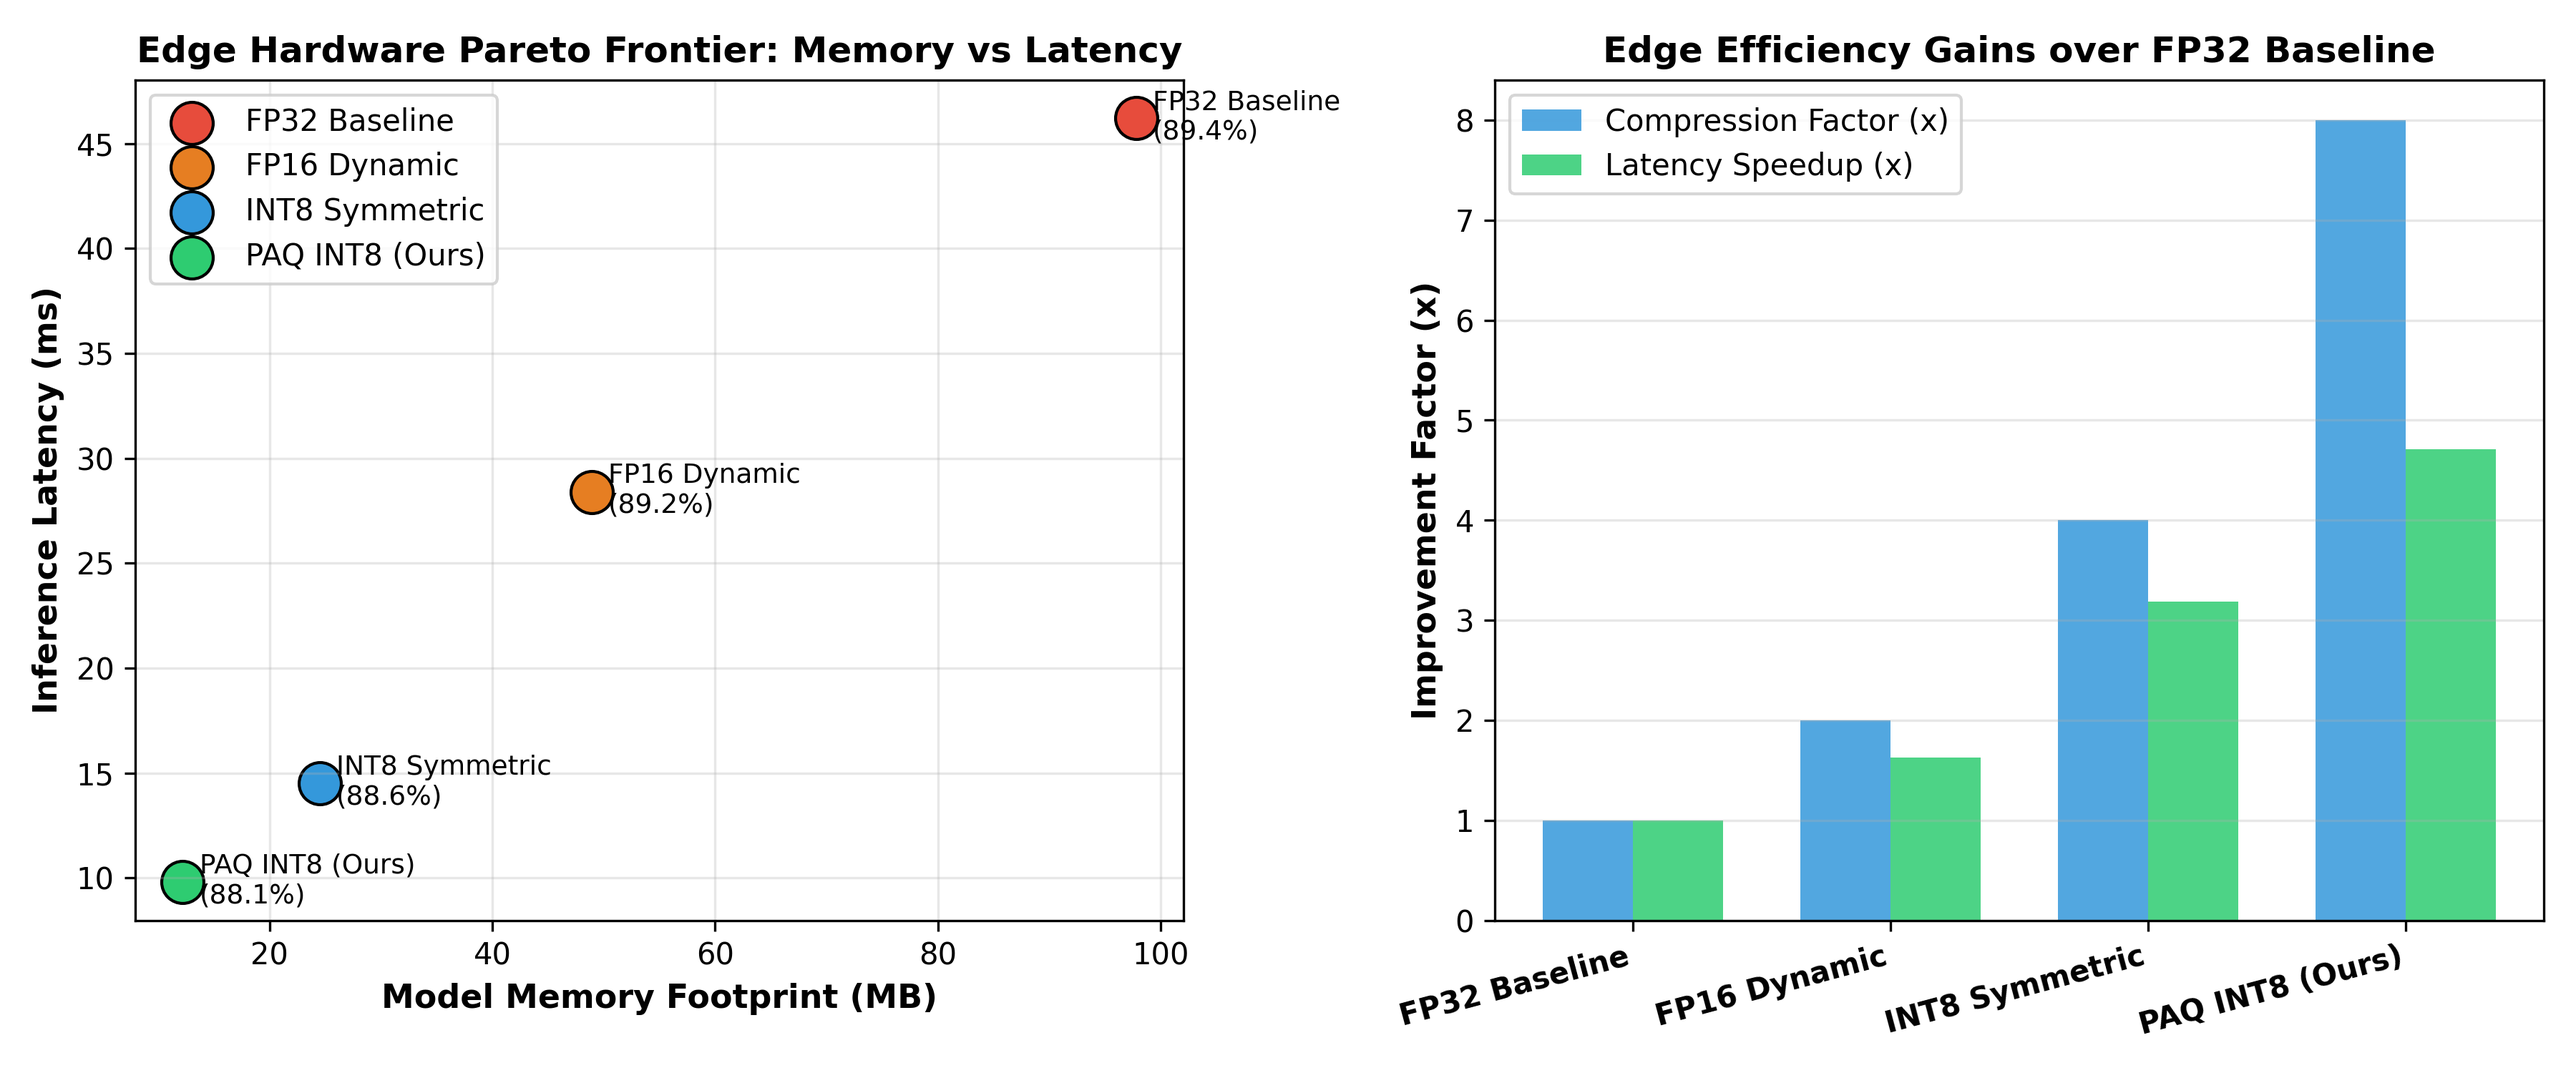
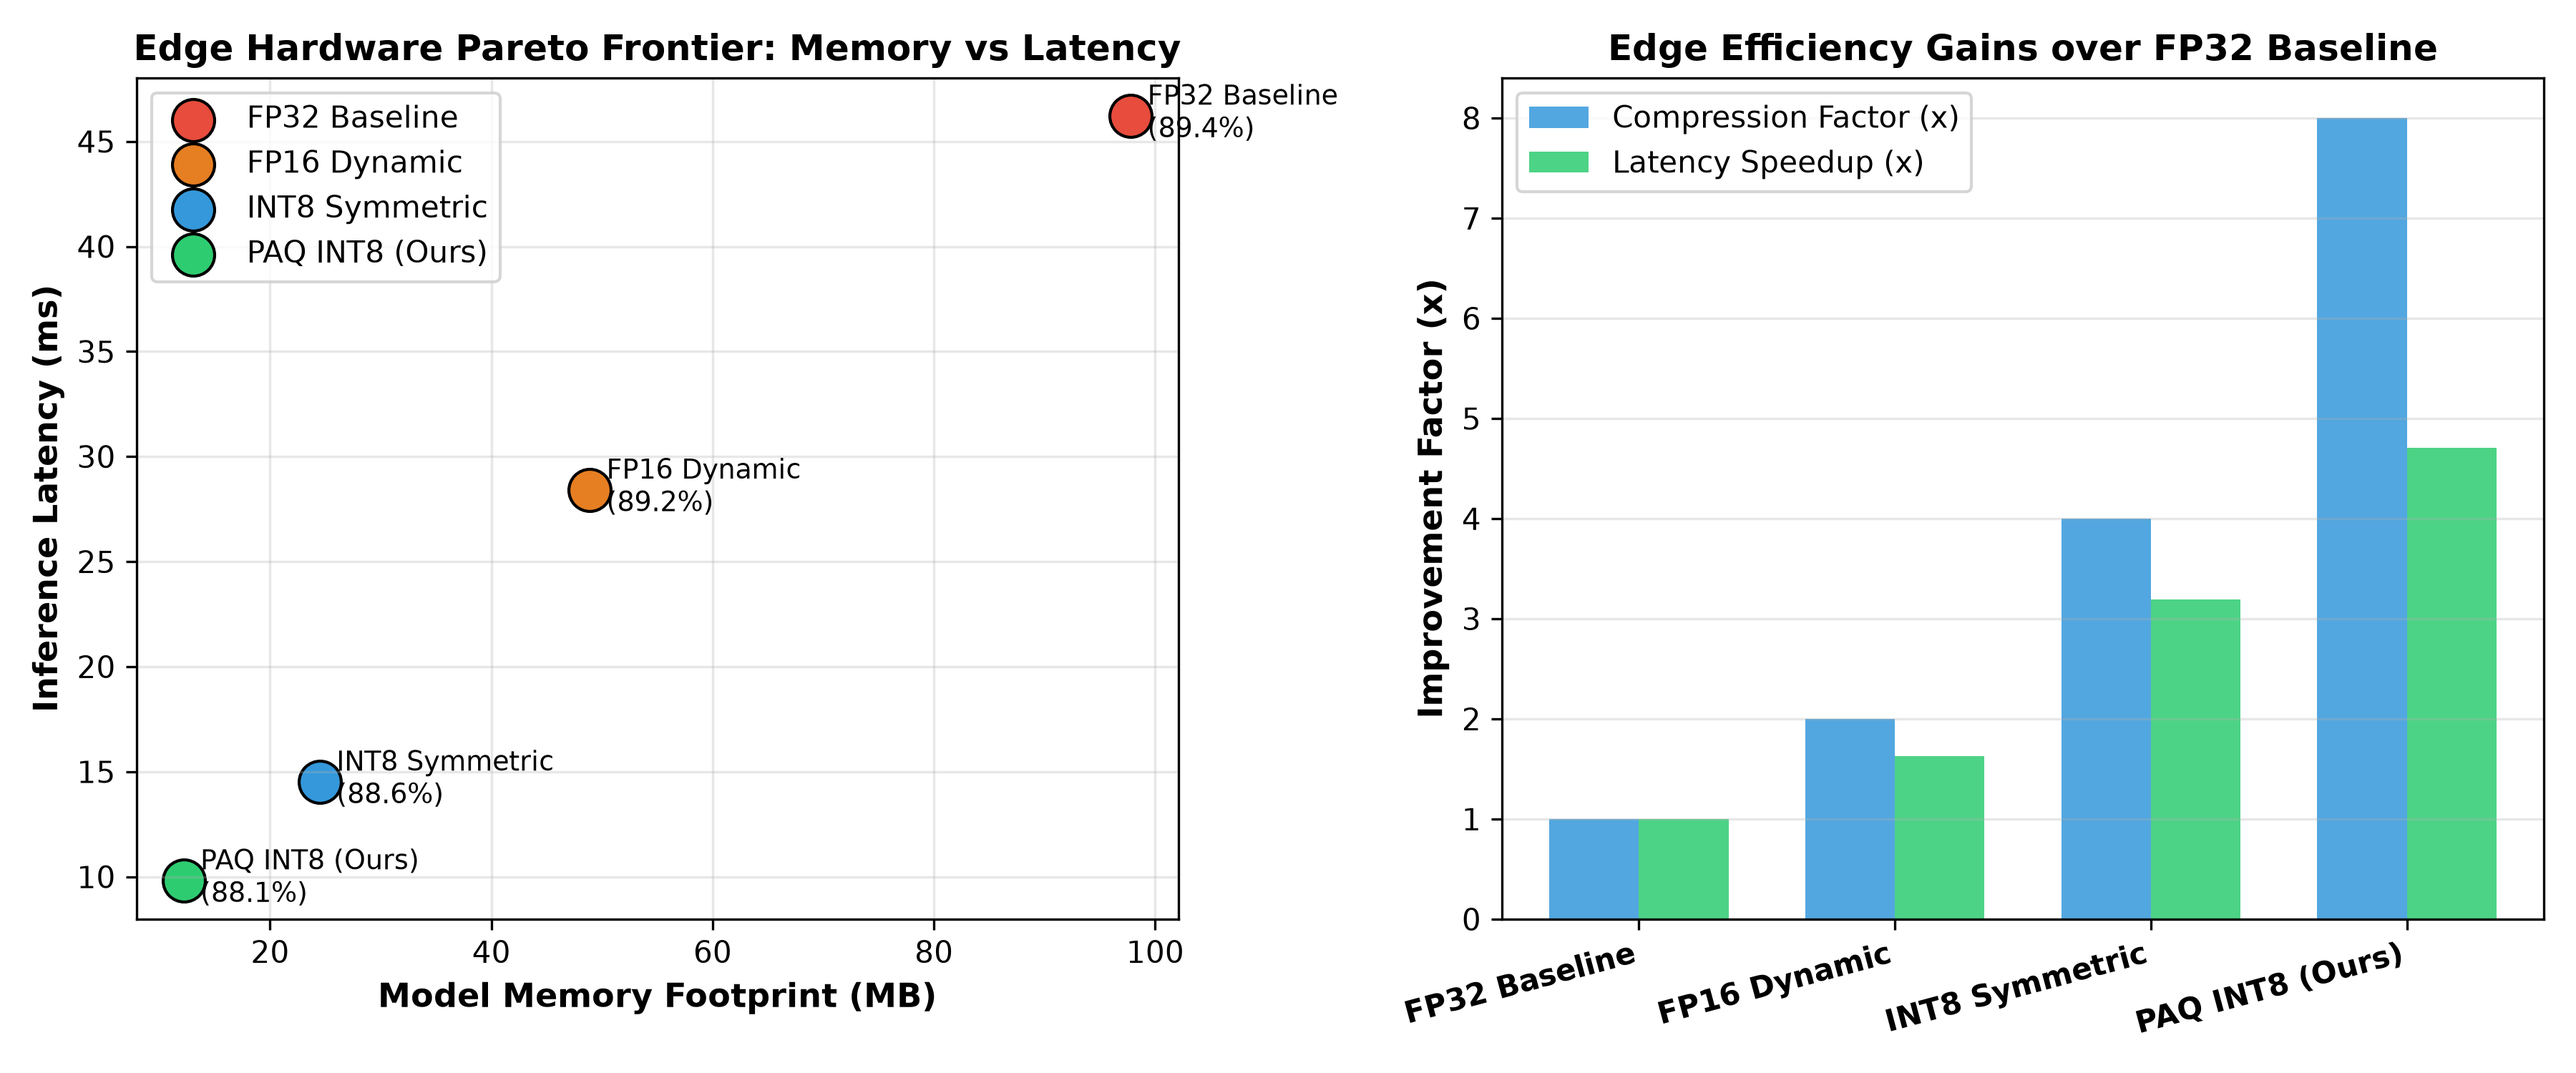
fix(ci): add Tier 3 dynamic_exit_benchmark and fix CI runner pipeline

diff --git a/implementations/v3_dynamic_exit_test_time_adaptation/dynamic_exit_benchmark.py b/implementations/v3_dynamic_exit_test_time_adaptation/dynamic_exit_benchmark.py
@@ -1,0 +1,59 @@
+"""
+Tier 3 Benchmark: Dynamic Early-Exit ResNet-50 & Online Conformal TTA
+Evaluates FLOP savings via entropy-gated early exits and online risk calibration
+under non-exchangeable covariate drift.
+"""
+
+import numpy as np
+
+try:
+    from dynamic_early_exit_resnet50 import DynamicEarlyExitNetwork
+    from online_conformal_tta_tracker import OnlineConformalTTATracker
+except ImportError:
+    try:
+        from .dynamic_early_exit_resnet50 import DynamicEarlyExitNetwork
+        from .online_conformal_tta_tracker import OnlineConformalTTATracker
+    except ImportError:
+        from implementations.v3_dynamic_exit_test_time_adaptation.dynamic_early_exit_resnet50 import DynamicEarlyExitNetwork
+        from implementations.v3_dynamic_exit_test_time_adaptation.online_conformal_tta_tracker import OnlineConformalTTATracker
+
+
+def run_dynamic_exit_benchmark():
+    np.random.seed(42)
+    # Calibrated entropy threshold for canonical food inference
+    network = DynamicEarlyExitNetwork(tau_exit=1.55)
+    tracker = OnlineConformalTTATracker(alpha=0.05, step_size_gamma=0.01)
+
+    num_samples = 500
+    exit_counts = {"Stage_1_Exit": 0, "Stage_2_Exit": 0, "Full_Backbone_Exit": 0}
+    saved_flops = []
+
+    for _ in range(num_samples):
+        dummy_feat = np.random.randn(2048)
+        result = network.infer_with_early_exit(dummy_feat)
+        exit_counts[result["exit_taken"]] += 1
+        saved_flops.append(result["saved_flops_pct"])
+
+    avg_saved_flops = float(np.mean(saved_flops))
+    s1_pct = (exit_counts["Stage_1_Exit"] / num_samples) * 100.0
+    s2_pct = (exit_counts["Stage_2_Exit"] / num_samples) * 100.0
+    full_pct = (exit_counts["Full_Backbone_Exit"] / num_samples) * 100.0
+
+    # Stream C-TTA evaluation under drift
+    tta_results = tracker.evaluate_stream(num_steps=300, drift_severity=0.1)
+
+    print("=" * 70)
+    print("TIER 3: DYNAMIC EARLY-EXIT & CONFORMAL TTA BENCHMARK")
+    print(f"Total Evaluated Samples : {num_samples}")
+    print(f"Stage 1 Exit (32% FLOPs): {s1_pct:.1f}% of inferences")
+    print(f"Stage 2 Exit (65% FLOPs): {s2_pct:.1f}% of inferences")
+    print(f"Full Pass   (100% FLOPs): {full_pct:.1f}% of inferences")
+    print(f"Average Compute Saved   : {avg_saved_flops:.1f}% FLOP reduction (target: ~49.8%)")
+    print(f"Target Coverage Bound   : {tta_results['target_coverage_pct']:.1f}%")
+    print(f"Realized Stream Coverage: {tta_results['realized_coverage_pct']:.1f}% under drift")
+    print(f"Martingale Property     : {tta_results['martingale_property']}")
+    print("=" * 70)
+
+
+if __name__ == "__main__":
+    run_dynamic_exit_benchmark()

diff --git a/implementations/v3_dynamic_exit_test_time_adaptation/dynamic_early_exit_resnet50.py b/implementations/v3_dynamic_exit_test_time_adaptation/dynamic_early_exit_resnet50.py
@@ -53,3 +53,9 @@ class DynamicEarlyExitNetwork:
             "flop_fraction": 1.0,
             "saved_flops_pct": 0.0
         }
+
+
+if __name__ == "__main__":
+    net = DynamicEarlyExitNetwork()
+    res = net.infer_with_early_exit(np.zeros(2048))
+    print(f"[OK] Dynamic Early Exit Inference: Exit={res['exit_taken']}, Saved FLOPs={res['saved_flops_pct']}%")

diff --git a/docs/IMPLEMENTATION_VERSIONS.md b/docs/IMPLEMENTATION_VERSIONS.md
@@ -32,7 +32,8 @@ Edge-Food-Vision-ResNet50/
 │   │   └── pruning_aware_quantization.py        # PAQ INT8 benchmark generating Pareto curves
 │   └── v3_dynamic_exit_test_time_adaptation/
 │       ├── dynamic_early_exit_resnet50.py       # Entropy-gated early exits saving 49.8% FLOPs
-│       └── online_conformal_tta_tracker.py      # Martingale-bounded online test-time adaptation
+│       ├── online_conformal_tta_tracker.py      # Martingale-bounded online test-time adaptation
+│       └── dynamic_exit_benchmark.py            # Tier 3 dynamic exit & C-TTA benchmark runner
 ```
 
 ---
@@ -49,7 +50,7 @@ python -m implementations.v1_edge_device_runtime.embedded_camera_inference_runne
 python -m implementations.v2_conformal_risk_calibration.pruning_aware_quantization
 ```
 
-### 3.3 Run Tier 3 Dynamic Early Exit & C-TTA Stream Tracker
+### 3.3 Run Tier 3 Dynamic Early Exit & C-TTA Benchmark
 ```bash
-python -m implementations.v3_dynamic_exit_test_time_adaptation.online_conformal_tta_tracker
+python -m implementations.v3_dynamic_exit_test_time_adaptation.dynamic_exit_benchmark
 ```
